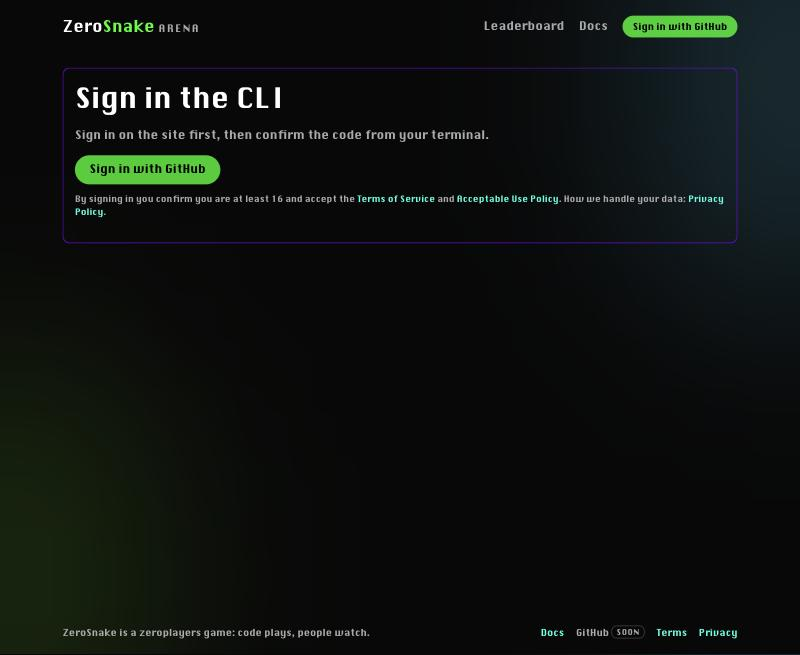
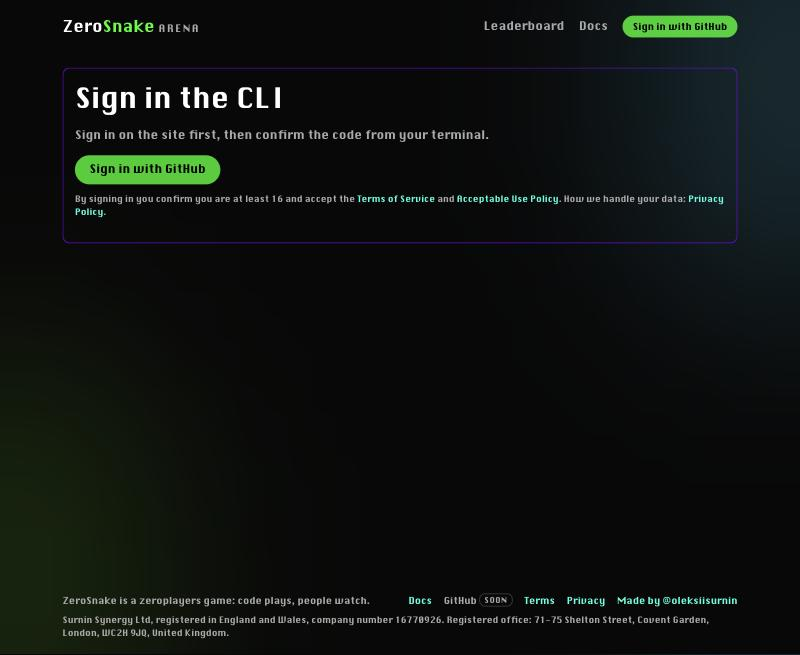
Legal pages: Surnin Synergy Ltd, England and Wales, ICO; company details and X link in the footer
The arena's outbox retry test now breaks the lives table instead of leaving out the
version row, since a life of a missing version is dropped by design.

Changed region(s): [[0.5, 0.8855, 0.9375, 0.9771], [0.0625, 0.916, 0.4688, 0.9771]]

diff --git a/apps/web/src/routes/privacy.tsx b/apps/web/src/routes/privacy.tsx
@@ -17,8 +17,13 @@ function Privacy() {
         does; the code is open source.
       </p>
       <p>
-        The controller is {LEGAL.operator}, {LEGAL.address}. For anything about your data, write to{" "}
-        <ContactEmail />.
+        The controller is {LEGAL.operator}, {LEGAL.registration}, registered office {LEGAL.address}.
+        For anything about your data, write to <ContactEmail />.
+      </p>
+      <p>
+        We handle personal data under the UK GDPR and the Data Protection Act 2018. For people in
+        the European Union the EU GDPR applies as well, and for California residents the California
+        Consumer Privacy Act as amended by the CPRA. The rights below apply to everyone.
       </p>
 
       <h2>In short</h2>
@@ -172,8 +177,9 @@ function Privacy() {
       <h2>Why we may use it (legal bases)</h2>
       <ul>
         <li>
-          <strong>To provide the service you signed up for</strong> (contract, GDPR art. 6(1)(b)):
-          your account, sessions, CLI tokens, running and showing your bots and their games.
+          <strong>To provide the service you signed up for</strong> (contract, UK GDPR and EU GDPR
+          art. 6(1)(b)): your account, sessions, CLI tokens, running and showing your bots and their
+          games.
         </li>
         <li>
           <strong>Legitimate interests</strong> (art. 6(1)(f)): security, rate limiting, logs,
@@ -207,9 +213,10 @@ function Privacy() {
       <h2>International transfers</h2>
       <p>
         Cloudflare runs a global network and GitHub is in the United States, so your data may be
-        processed outside your country, including in the US. Where the GDPR or the UK GDPR applies,
-        those transfers rely on the EU-US Data Privacy Framework (and its UK extension), in which
-        both companies take part, and on the European Commission's standard contractual clauses.
+        processed outside your country, including in the US. Transfers from the UK rely on the UK
+        Extension to the EU-US Data Privacy Framework (the “UK-US data bridge”) and from the EU on
+        the EU-US Data Privacy Framework, in which both companies take part, and on the European
+        Commission's standard contractual clauses.
       </p>
 
       <h2>Deleting your account</h2>
@@ -249,9 +256,11 @@ function Privacy() {
       <p>
         Write to <ContactEmail /> for anything Settings doesn't do. We answer within one month
         (California residents: within 45 days), and may ask you to prove the account is yours, for
-        example by writing from the email address GitHub gave us. In the EU and UK you can also
-        complain to your data protection authority. California residents: we don't sell or share
-        personal information, don't use sensitive personal information, and won't treat you
+        example by writing from the email address GitHub gave us. You can also complain to the UK's
+        Information Commissioner's Office (
+        <a href="https://ico.org.uk/make-a-complaint/">ico.org.uk</a>) or, in the EU, to the data
+        protection authority where you live. California residents (CCPA/CPRA): we don't sell or
+        share personal information, don't use sensitive personal information, and won't treat you
         differently for using these rights.
       </p>
 

diff --git a/apps/web/src/routes/terms.tsx b/apps/web/src/routes/terms.tsx
@@ -12,11 +12,12 @@ function Terms() {
     <LegalPage title="Terms of Service">
       <p>
         ZeroSnake Arena (“the service”) is a free game where people write snake bots and the bots
-        play each other on this site. It is run by {LEGAL.operator}, {LEGAL.address} (“we”, “us”).
-        By creating an account or deploying a bot you agree to these terms, to the{" "}
-        <Link to="/acceptable-use">Acceptable Use Policy</Link>, which is part of them, and to how
-        we handle data as described in the <Link to="/privacy">Privacy Policy</Link>. You can watch
-        games, replays and the leaderboard without an account.
+        play each other on this site. It is run by {LEGAL.operator}, {LEGAL.registration},
+        registered office {LEGAL.address} (“we”, “us”). By creating an account or deploying a bot
+        you agree to these terms, to the <Link to="/acceptable-use">Acceptable Use Policy</Link>,
+        which is part of them, and to how we handle data as described in the{" "}
+        <Link to="/privacy">Privacy Policy</Link>. You can watch games, replays and the leaderboard
+        without an account.
       </p>
 
       <h2>Your account</h2>
@@ -89,10 +90,10 @@ function Terms() {
         <li>
           To the extent the law allows, we are not liable for any indirect, incidental, special or
           consequential damages, or for lost data, profits or goodwill, and our total liability for
-          any claim about the service is limited to 50 euros. Nothing in these terms limits
-          liability that cannot be limited by law, such as for intent, gross negligence, or injury
-          to life, body or health, and nothing takes away rights you have as a consumer under the
-          laws of the country where you live.
+          any claim about the service is limited to £50. Nothing in these terms limits liability
+          that cannot be limited by law, such as for death or personal injury caused by negligence,
+          or for fraud, and nothing takes away rights you have as a consumer under the laws of the
+          country where you live.
         </li>
       </ul>
 
@@ -112,14 +113,16 @@ function Terms() {
 
       <h2>Law and disputes</h2>
       <p>
-        These terms are governed by {LEGAL.governingLaw}, and disputes go to {LEGAL.courts}, unless
-        the law of the country where you live as a consumer says otherwise. If one part of these
-        terms is invalid, the rest still applies.
+        These terms are governed by {LEGAL.governingLaw}, and disputes go to {LEGAL.courts}. If you
+        live in Scotland or Northern Ireland you may also bring proceedings there, and if you live
+        elsewhere as a consumer, the mandatory consumer protections of your country still apply. If
+        one part of these terms is invalid, the rest still applies.
       </p>
 
       <h2>Contact</h2>
       <p>
-        {LEGAL.operator}, {LEGAL.address}. Email: <ContactEmail />.
+        {LEGAL.operator}, {LEGAL.registration}. Registered office: {LEGAL.address}. Email:{" "}
+        <ContactEmail />.
       </p>
     </LegalPage>
   );

diff --git a/apps/web/src/legal.ts b/apps/web/src/legal.ts
@@ -1,23 +1,30 @@
 /**
- * Facts the legal pages (`/terms`, `/acceptable-use`, `/privacy`) quote. The bracketed values
- * are placeholders: fill them in before launch (zeroplayers/snake-arena#86), and update
- * `LEGAL_UPDATED` whenever the pages change in substance.
+ * Facts the legal pages (`/terms`, `/acceptable-use`, `/privacy`) quote: who runs the service
+ * (as on the Companies House register) and where disputes go. Update `LEGAL_UPDATED` whenever
+ * the pages change in substance.
  */
 export const LEGAL = {
-  /** Who runs the service: a person's or company's legal name. */
-  operator: "[OPERATOR LEGAL NAME]",
-  /** Postal address, with the country. */
-  address: "[POSTAL ADDRESS, COUNTRY]",
+  /** Legal name of the operator and data controller. */
+  operator: "Surnin Synergy Ltd",
+  /** Shown on the legal pages and in the site footer, as UK company law asks. */
+  registration:
+    "a private limited company registered in England and Wales, company number 16770926",
+  companyNumber: "16770926",
+  /** Registered office. */
+  address: "71-75 Shelton Street, Covent Garden, London, WC2H 9JQ, United Kingdom",
   /** Where privacy requests and legal notices go. */
-  email: "[CONTACT EMAIL]",
-  /** E.g. "the laws of Germany". */
-  governingLaw: "[GOVERNING LAW, e.g. the laws of COUNTRY]",
-  /** E.g. "the courts of Berlin, Germany". */
-  courts: "[COURTS, e.g. the courts of CITY, COUNTRY]",
+  email: "hello@surninsynergy.com",
+  governingLaw: "the laws of England and Wales",
+  courts: "the courts of England and Wales",
+  /** The maker's X profile, in the footer. */
+  x: { url: "https://x.com/oleksiisurnin", handle: "@oleksiisurnin", label: "Oleksii Surnin on X" },
 } as const;
 
 /** When the pages last changed in substance (shown on each page). */
 export const LEGAL_UPDATED = "27 October 2026";
 
-/** Minimum age to have an account. 16 is the highest age of digital consent in the EU (GDPR art. 8). */
+/**
+ * Minimum age to have an account. The UK's age of digital consent is 13; EU countries set
+ * theirs between 13 and 16 (GDPR art. 8), so 16 works everywhere without parental consent.
+ */
 export const MINIMUM_AGE = 16;

diff --git a/apps/arena/src/room.test.ts b/apps/arena/src/room.test.ts
@@ -247,15 +247,13 @@ describe("RoomDO", () => {
   }, 60_000);
 
   it("retries failed deliveries with backoff, pauses while they fail, drops nothing", async () => {
-    // No `versions` row yet: inserting the life fails its foreign key until we add it.
-    const ghost: LifeTicket = {
-      lifeId: "life-ghost-1",
-      versionId: "v-ghost",
-      author: "ghost",
-      source: BOTS.thrower,
-    };
+    // No `lives` table for a while: inserting the life fails until it's back. (A missing
+    // `versions` row wouldn't do: a life of a deleted version is dropped, not retried.)
+    const ghost = await ticket("ghost", BOTS.thrower);
     const rita = await ticket("rita", house.hard as string);
     await startRoom("outbox", [ghost, rita], { limits: { chunkTicks: 50, maxOutbox: 0 } });
+    const db = await h.d1();
+    await db.prepare("ALTER TABLE lives RENAME TO lives_away").run();
 
     const s1 = await h.room<RoomStatus>("outbox", "runBatch");
     expect(s1.outbox).toEqual({ size: 1, failing: 1 });
@@ -265,7 +263,7 @@ describe("RoomDO", () => {
     expect(s2.tick).toBe(s1.tick);
     expect(await (await h.r2()).head("outbox/0000000000.zsr")).not.toBeNull();
 
-    await seedVersion(await h.d1(), "ghost", BOTS.thrower);
+    await db.prepare("ALTER TABLE lives_away RENAME TO lives").run();
     await sleep(1100);
     const s3 = await h.room<RoomStatus>("outbox", "runBatch");
     expect(s3.outbox.failing).toBe(0);

diff --git a/apps/web/src/routes/__root.tsx b/apps/web/src/routes/__root.tsx
@@ -11,6 +11,7 @@ import {
 import type { ReactNode } from "react";
 import { AnalyticsBeacon } from "../components/AnalyticsBeacon";
 import { GithubLink } from "../components/GithubLink";
+import { LEGAL } from "../legal";
 import { signInWithGithub } from "../lib/auth-client";
 import { getViewer } from "../server/functions";
 import { getSiteConfig } from "../server/site-config";
@@ -88,7 +89,14 @@ function RootLayout() {
             <GithubLink />
             <Link to="/terms">Terms</Link>
             <Link to="/privacy">Privacy</Link>
+            <a href={LEGAL.x.url} target="_blank" rel="me noopener" aria-label={LEGAL.x.label}>
+              Made by {LEGAL.x.handle}
+            </a>
           </span>
+          <small className="footer-company">
+            {LEGAL.operator}, registered in England and Wales, company number {LEGAL.companyNumber}.
+            Registered office: {LEGAL.address}.
+          </small>
         </footer>
       </div>
     </RootDocument>

diff --git a/apps/web/src/legal.test.ts b/apps/web/src/legal.test.ts
@@ -5,6 +5,7 @@
 import { readdirSync, readFileSync, statSync } from "node:fs";
 import { join } from "node:path";
 import { afterEach, describe, expect, it, vi } from "vitest";
+import { LEGAL } from "./legal";
 import { createAuth } from "./server/auth";
 import { siteConfig } from "./server/site-config";
 import { createTestD1 } from "./test/d1";
@@ -92,5 +93,11 @@ describe("Web Analytics config", () => {
       beaconToken: null,
     });
     expect(siteConfig({})).toEqual({ beaconToken: null });
+  });
+});
+
+describe("legal facts", () => {
+  it("has no placeholder left", () => {
+    expect(JSON.stringify(LEGAL)).not.toMatch(/\[|TODO|example/i);
   });
 });

diff --git a/apps/web/src/styles/app.css b/apps/web/src/styles/app.css
@@ -1281,3 +1281,9 @@ button.link-card:hover {
 .danger-zone p {
   margin: 0;
 }
+
+.footer-company {
+  flex-basis: 100%;
+  color: var(--text-muted);
+  font-size: 12px;
+}

diff --git a/apps/web/README.md b/apps/web/README.md
@@ -348,8 +348,9 @@ works as well. Locally, trigger it with
 ## Legal pages and data rights
 
 `/terms`, `/acceptable-use` and `/privacy` (cookie list included) are plain routes in
-`src/routes/`. The operator's name, address, contact email, governing law and courts are
-placeholders in [`src/legal.ts`](src/legal.ts), together with the "last updated" date. The
+`src/routes/`. The operator (Surnin Synergy Ltd, company number and registered office, also in
+the site footer), contact email, governing law and courts are in [`src/legal.ts`](src/legal.ts),
+together with the "last updated" date. The
 Privacy Policy describes what the code stores: when that changes (a new table, column, cookie,
 log field, metric or processor), update the page in the same pull request.
 
